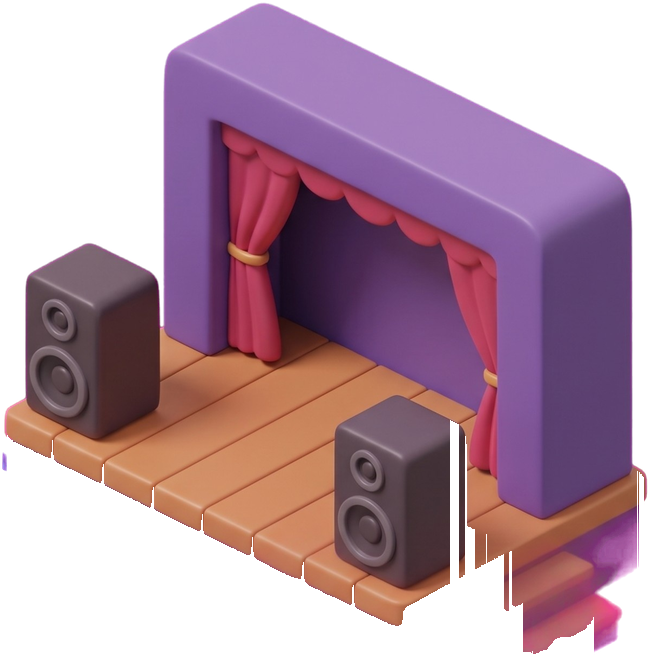
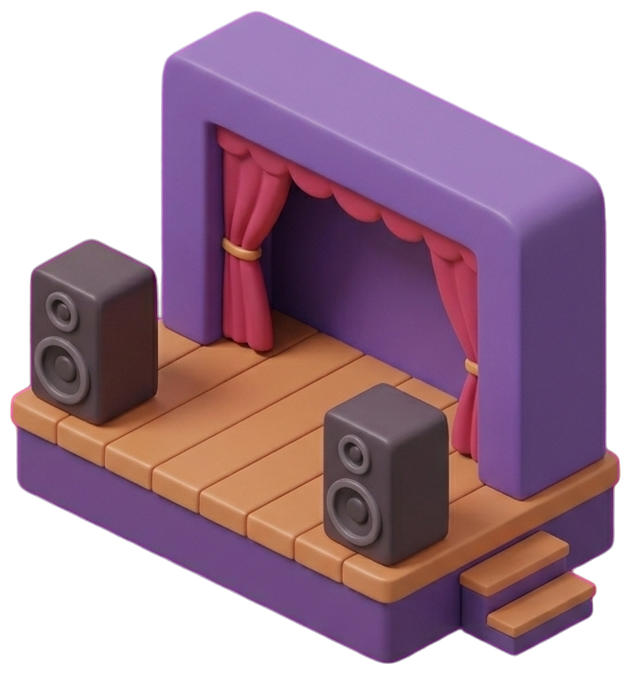
Велика сцена в ТРЦ
- bld_stage: нова чиста картинка з основою й сходинками, розмір під ділянку 2.8x1.8

diff --git a/src/render/spriteMeta.ts b/src/render/spriteMeta.ts
@@ -34,7 +34,7 @@ export const SPRITE_META: Record<string, SpriteMeta> = {
   // indoor places: the wall image covers both back walls; its anchor is the back corner on the floor
   wall_mall: { h: 311, anchor: [0.5, 0.383] },
   wall_station: { h: 311, anchor: [0.5, 0.383] },
-  bld_stage: { h: 130, anchor: [0.5, 0.7] },
+  bld_stage: { h: 160, anchor: [0.5, 0.69] },
   prop_vending: { h: 70, anchor: [0.5, 0.85] },
   prop_column: { h: 88, anchor: [0.5, 0.95] },
   prop_luggage: { h: 44, anchor: [0.5, 0.8] },
